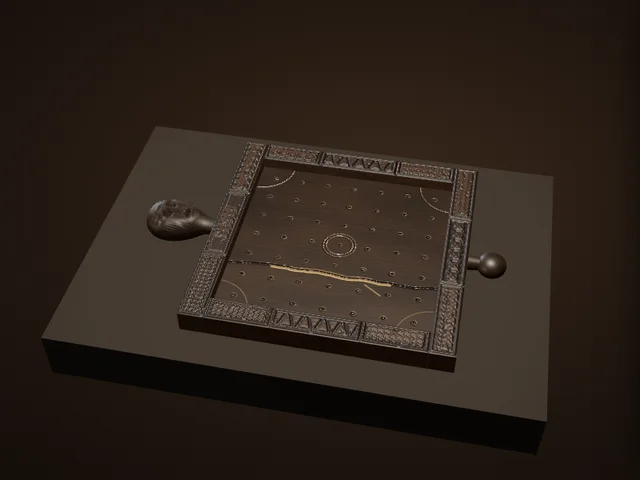
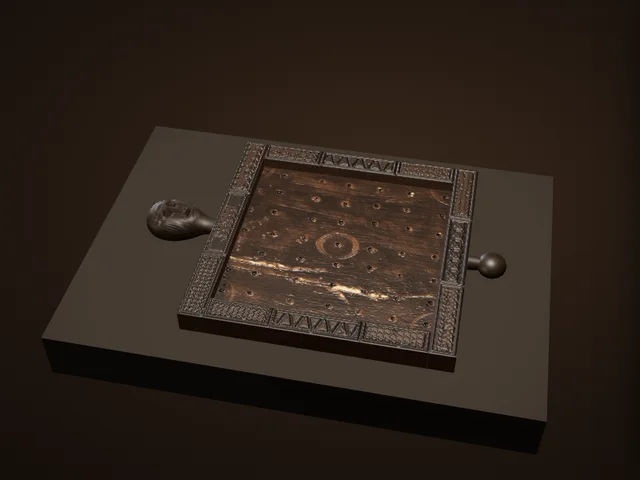
博物館：バリンダリーの盤面の傷み（割れ・ささくれ・穴・木目）を写真から
Claude-Session: https://claude.ai/code/session_01EiWRAZTxRF5M5nk5vdR2jJ

Changed region(s): [[0.3438, 0.3438, 0.6875, 0.6875], [0.5938, 0.375, 0.6875, 0.4375], [0.4375, 0.625, 0.4688, 0.6562]]

diff --git a/atlas/museum/ex/ballinderry.js b/atlas/museum/ex/ballinderry.js
@@ -9,7 +9,11 @@
    Estimates: the thickness (2.4, the panel sunk 1.4) and the exact drawing inside each carved panel. */
 (function () {
   'use strict';
+  // the sunk panel's wear, taken off the photograph of the board seen from above (1024², the panel only): red = how light or dark the wood
+  // is there (128 = even: the grain, the stains, the incised rings), green = pale splintered wood, blue = the holes, alpha = 255 − the splits
+  const HERE = (document.currentScript && document.currentScript.src) || location.href; let WEAR = null;
   (window.AtlasEx = window.AtlasEx || {}).ballinderry = {
+    ready: () => new Promise(res => { const im = new Image(); im.onload = () => { WEAR = im; res(); }; im.onerror = () => res(); im.src = new URL('../../../images/atlas/ex/ballinderry-panel.webp?v=2', HERE).href; setTimeout(res, 8000); }),
     build(TT, X, K) {
       const G = new TT.Group(), Pg = new TT.Group(); Pg.rotation.y = Math.PI / 2; G.add(Pg);
       const S = 24, FW = 2.3, T0 = 1.0, T1 = 2.4, IN = S - FW * 2, P = 2.65, DP = .3;
@@ -89,7 +93,13 @@
       const PX = 1024, cm = v => v / IN * PX, CX = cm(7.7 - FW);   // the split: about a third of the way across from the left
       const crack = []; { let x = CX + 6; for (let y = 0; y <= PX; y += 22) { x += (rnd() - .5) * 9 + (y > PX * .3 && y < PX * .62 ? -.9 : .5); crack.push([x, y]); } }
       const hole = (i, j) => [PX / 2 + (i - 3) * cm(P), PX / 2 + (j - 3) * cm(P)];
-      const drawPanel = (g, bump) => { if (bump) { g.fillStyle = '#909090'; g.fillRect(0, 0, PX, PX); } else g.drawImage(panelMap.image, 0, 0, PX, PX);
+      let wd = null; if (WEAR) { const c = document.createElement('canvas'); c.width = c.height = PX; const q = c.getContext('2d'); q.drawImage(WEAR, 0, 0, PX, PX); wd = q.getImageData(0, 0, PX, PX).data; }
+      const drawWorn = (g, bump) => { if (!bump) g.drawImage(panelMap.image, 0, 0, PX, PX); else { g.fillStyle = '#909090'; g.fillRect(0, 0, PX, PX); } const im = g.getImageData(0, 0, PX, PX), d = im.data;
+        for (let i = 0; i < d.length; i += 4) { const w = wd[i] / 128, pale = wd[i + 1] / 255, hole = wd[i + 2] / 255, split = (255 - wd[i + 3]) / 200;
+          if (bump) { let v = 144 + (w - 1) * 40 + pale * 14; v *= (1 - hole) * (1 - split); d[i] = d[i + 1] = d[i + 2] = Math.max(0, Math.min(255, v)); }
+          else { const k = Math.max(.45, Math.min(2.0, 1 + (w - 1) * 1.25)); let c = [d[i] * k * 1.2, d[i + 1] * k * 1.12, d[i + 2] * k * 1.04]; c = c.map((v, q) => v + ([206, 168, 108][q] - v) * pale); const dk = (1 - hole * .97) * (1 - split * .95); d[i] = c[0] * dk; d[i + 1] = c[1] * dk; d[i + 2] = c[2] * dk; } }
+        g.putImageData(im, 0, 0); };
+      const drawPanel = (g, bump) => { if (wd) return drawWorn(g, bump); if (bump) { g.fillStyle = '#909090'; g.fillRect(0, 0, PX, PX); } else g.drawImage(panelMap.image, 0, 0, PX, PX);
         const cut = bump ? '#3a3a3a' : 'rgba(150,120,84,.5)'; g.strokeStyle = cut; g.lineWidth = bump ? 4 : 2.6; g.lineCap = 'round';
         const [cx, cy] = hole(3, 3); [1.5, 1.22].forEach(r => { g.beginPath(); g.arc(cx, cy, cm(r), 0, 6.29); g.stroke(); });   // two rings round the centre hole
         [[0, 0, 0], [PX, 0, 1], [PX, PX, 2], [0, PX, 3]].forEach(([x, y, q]) => { g.beginPath(); g.arc(x, y, cm(3.3), q * Math.PI / 2, q * Math.PI / 2 + Math.PI / 2); g.stroke(); });   // a quarter-circle across each corner

diff --git a/atlas/museum.js b/atlas/museum.js
@@ -32,7 +32,7 @@
   const ROOMS = [
     { id: 'map', ready: () => !!window.AtlasMap, render: (el, c) => AtlasMap.render(el, c) },
     { id: 'tree', src: ['museum/tree.js?v=3'], ready: () => !!window.AtlasTree, render: (el, c) => AtlasTree.render(el, c) },
-    { id: 'gallery', src: ['museum/gallery.js?v=82'], ready: () => !!window.AtlasGallery, render: (el, c) => AtlasGallery.render(el, c) },
+    { id: 'gallery', src: ['museum/gallery.js?v=83'], ready: () => !!window.AtlasGallery, render: (el, c) => AtlasGallery.render(el, c) },
   ];
   const KEY = 'atlas-museum-room';
   const esc = s => String(s == null ? '' : s).replace(/[&<>"]/g, c => ({ '&': '&amp;', '<': '&lt;', '>': '&gt;', '"': '&quot;' }[c]));

diff --git a/atlas/index.html b/atlas/index.html
@@ -2559,7 +2559,7 @@ window.AtlasRgdTimer = function (btn, ms, alive) {
 <link rel="stylesheet" href="worldmap.css?v=19">
 <link rel="stylesheet" href="museum.css?v=4">
 <script src="worldmap.js?v=40"></script>
-<script src="museum.js?v=83"></script>
+<script src="museum.js?v=84"></script>
 <script src="npc/npc.js?v=46"></script>
 <script src="avtalk.js?v=4"></script>
 <script>/* Page states as classes on <html> (2026-11-21) — html.cov-on: the 3D view / Historia / a sheet / a level sheet is open;

diff --git a/atlas/museum/gallery.js b/atlas/museum/gallery.js
@@ -10,7 +10,7 @@
    (a turn, a zoom, the slow turntable) and never while the window is in the background. */
 (function () {
   'use strict';
-  const V = 82;
+  const V = 83;
   /* ---------- the pieces: id, the game it belongs to, its scale (cm per model unit), the camera's start, the details ----------
      lock: { game, ach } → open after that many achievements of the game. src: the files the piece needs (besides ex/<id>.js) */
   const EX = [

diff --git a/claude/museum-spec.md b/claude/museum-spec.md
@@ -92,6 +92,7 @@
   - 木画紫檀棊局の脚・柱の図（鳥・山・鹿）：細部写真429から抜き出した8つの小図（images/atlas/ex/shosoin-legs.webp）を、写真の配置（上に鳥、中ほどに山、足元に鹿。柱は象牙の線の両側）で貼る。
   - セネト盤の銘文（2026-11-22）：見学者側の長い側面は、展示写真（4032px、銘文の帯が約3400×215px）から刻線を抜き出した画像（images/atlas/ex/senet-text.webp）を貼る。実物は細い輪郭線の彫りで、一部だけ塗りつぶし。抜き出しは「周囲より明るい＋暖色」を連続値で取り、暗い部分は利得を上げ、木目の横筋（低く横長の小片）を除く。反対側の長い側面は写真が見つからないため、同じ画像を入れる（2026-11-22 ユーザー決定。フォントよりよい）。反対側の写真は Global Egyptian Museum の800px画像が1枚あるだけ（帯が約480×20pxで抜き出せない）。そこから分かるのは「反対側も引き出しの端から始まり、王名の輪が反対の端で終わる」ことなので、正面の画像を左右反転して貼る（文面は実物と異なる）。高解像度の写真が見つかれば差し替える。短い端面だけ、記録の文面をフォントの輪郭線（塗りなし）で描く。
   - 双六局の唐草の密度：主茎に交差する2本目の茎、花の間の巻きひげ（渦）と心形の小さな蕾を足す（帯・床脚・柱）。
+  - バリンダリーの盤面の傷み：線で描いた割れ目・穴をやめ、真上からの写真の盤面部分から作った傷みの図（images/atlas/ex/ballinderry-panel.webp：赤＝木の明暗〔木目・しみ・刻線〕、緑＝ささくれた淡い木、青＝穴、アルファ＝割れ）を、描いた木目に掛け合わせる。穴の位置も写真のもの（手であけた不ぞろいな並び）。
   - **スマホのテクスチャ上限**：スマホ（幅820px未満）では、読み込み時に長辺1536pxを超えるテクスチャを1536pxに縮める（gallery.js の small()。2048²は1枚22MB）。
   - **同じ平面に面を重ねない／透かしはアルファ・トゥ・カバレッジ**：隣り合う部品の面が同じ平面にあると遠目でちらつく（双六局の隅の脚。片方を少し短くする）。alphaTest の透かし（ダイスタワー）は `alphaToCoverage: true` を付けて縁を滑らかにする。
   - **重さの基準**：三角形は展示1点 8万以下（`atlas/tools/exrender.html` が `window.stats` に三角形数・メッシュ数・テクスチャの枚数とメモリを出す）。
